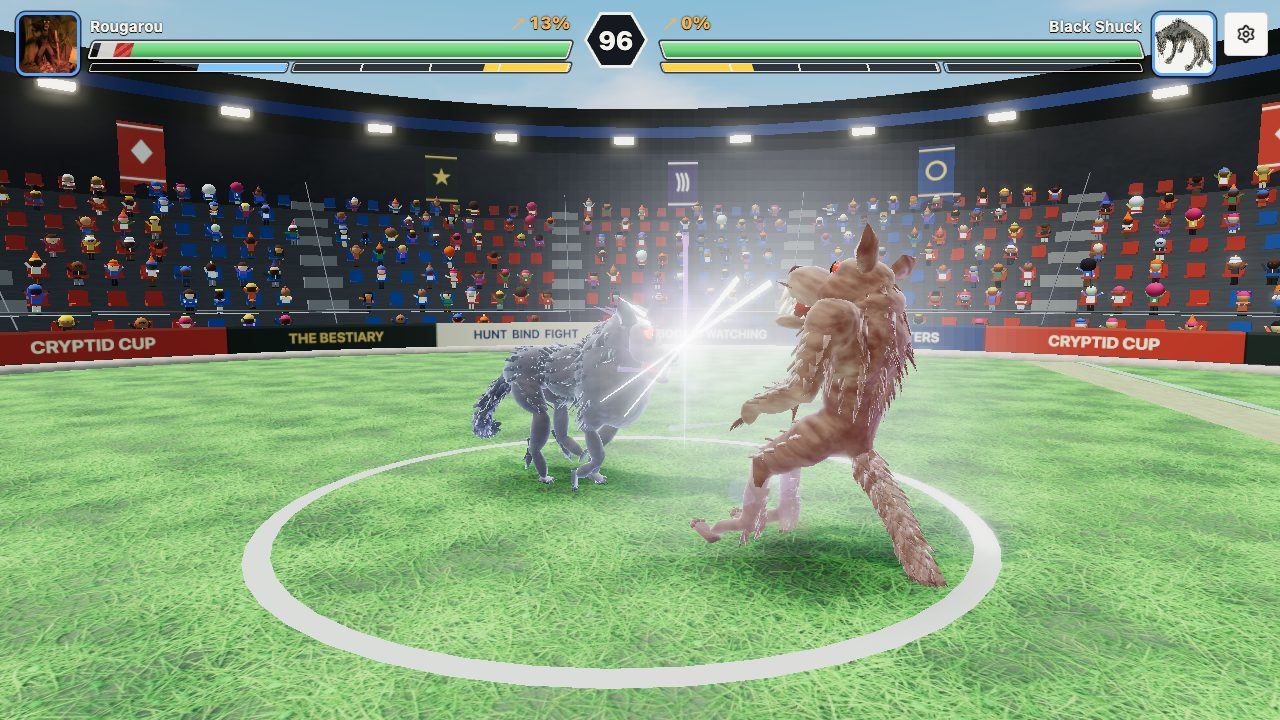
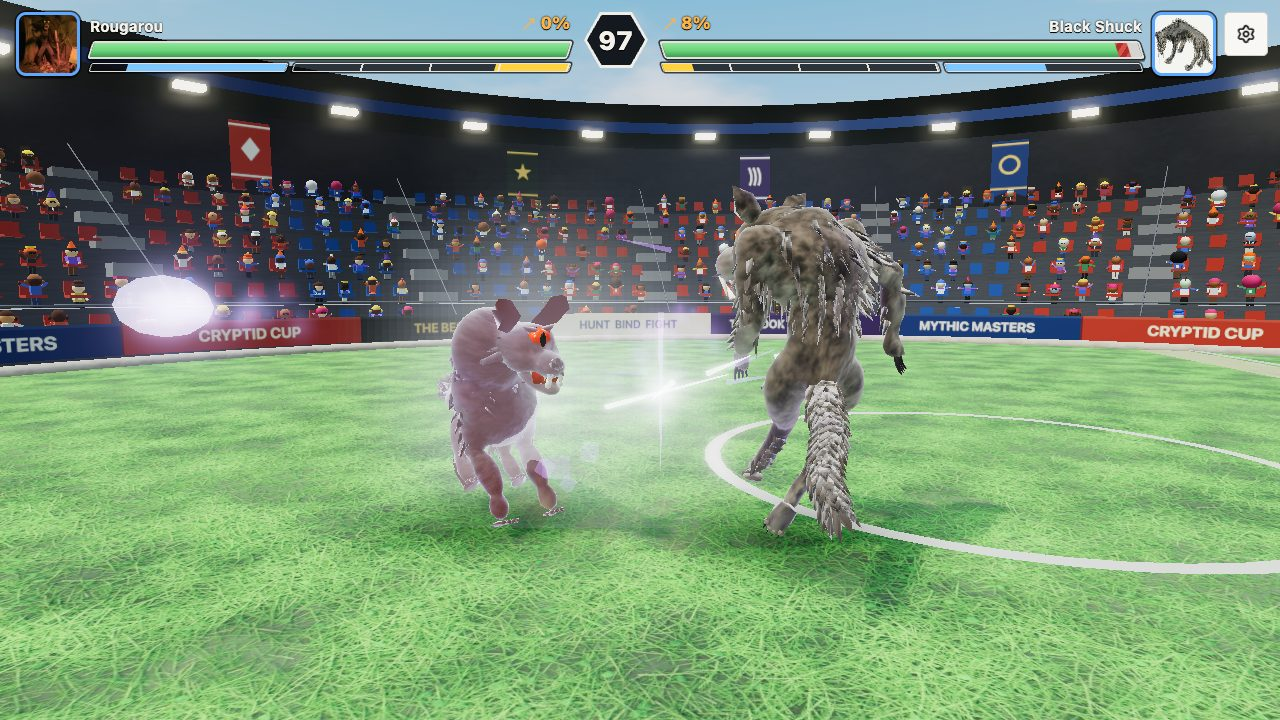
Mythic Masters whiplash: a stiffer, damped spring that is gone before the blow's rebound, and the curl keeps its head throw (round 20, Part of #4652)
The first tuning held the head back through the rebound, so the body never stretched past rest (beasts.test.ts).

diff --git a/apps/mythic-masters/src/beasts.ts b/apps/mythic-masters/src/beasts.ts
@@ -630,7 +630,7 @@ export class Puppet {
       pitch -= Math.sin(tick * 0.32) * (0.05 + 0.05 * this.upright);
     }
     // contact: a fresh hit (stun jumps up) squashes the body along the blow, then it springs back past rest
-    if (f.stun > this.prevStun + 1) { this.joltV = -9; this.blowV = -(3 + 5 * Math.min(1, (f.stun - this.prevStun) / 22)); this.snapV = 14 + 16 * Math.min(1, (f.stun - this.prevStun) / 22); }
+    if (f.stun > this.prevStun + 1) { this.joltV = -9; this.blowV = -(3 + 5 * Math.min(1, (f.stun - this.prevStun) / 22)); this.snapV = 30 + 20 * Math.min(1, (f.stun - this.prevStun) / 22); }
     if (f.stun > this.prevStun + 8) this.stagger = Math.min(1, (f.stun - this.prevStun) / 22);
     if (f.stun > this.prevStun + 1 && look) {
       const dx = f.pos.x - look.x, dz = f.pos.z - look.z, d = Math.hypot(dx, dz) || 1;
@@ -648,7 +648,7 @@ export class Puppet {
     const bdt = Math.min(dt, 1 / 30);
     this.blowV += (-70 * this.blow - 2 * 0.3 * Math.sqrt(70) * this.blowV) * bdt;
     this.blow = Math.max(-0.8, this.blow + this.blowV * bdt);
-    this.snapV += (-160 * this.snap - 2 * 0.5 * Math.sqrt(160) * this.snapV) * bdt;
+    this.snapV += (-600 * this.snap - 2 * 0.75 * Math.sqrt(600) * this.snapV) * bdt;
     this.snap = Math.min(1, this.snap + this.snapV * bdt);
     // anticipation: the wind-up squats and widens, the strike stretches tall and thin
     const sq = (wind * (1 - mk) * (0.05 + wt * 0.06) - mk * (0.04 + wt * 0.03)) * A.amp - this.jolt * 0.16;
@@ -670,7 +670,7 @@ export class Puppet {
     this.leanV += (lk * (pitch - this.lean) - ld * this.leanV) * ldt;
     this.lean += this.leanV * ldt;
     // a roll is one full tumble forward on top of the lean
-    this.pivot.rotation.set(roll, twist, this.lean - curl * 0.32 + this.snap * 0.22 - (off?.kind === "roll" ? offE * Math.PI * 2 : 0));
+    this.pivot.rotation.set(roll, twist, this.lean - curl * 0.32 + this.snap * 0.25 - (off?.kind === "roll" ? offE * Math.PI * 2 : 0));
     g.position.set(f.pos.x, f.pos.y, f.pos.z);
     // a real meet: the sim lands a melee blow up to a metre short of the other body, so the striker's whole body slides
     // the rest of the way on the strike and holds there while the move is live (the contact stop below then jars it),
@@ -821,7 +821,7 @@ export class Puppet {
       this.tmp.set(look.x, look.y, look.z).applyMatrix4(this.inv).sub(this.head[0]!.rest);
       if (this.tmp.x > 0) this.look.set(0, Math.max(-1, Math.min(1, this.tmp.y / (this.tmp.length() || 1))), Math.max(-1, Math.min(1, this.tmp.z / (this.tmp.length() || 1)))).multiplyScalar(0.08 * h);
     }
-    this.look.x += (past * 0.3 + lunge * 0.12 + jab * 0.1 + rear * 0.04 - back * 0.08 - stunK * 0.06 + curl * 0.06 - this.snap * 0.3) * h;
+    this.look.x += (past * 0.3 + lunge * 0.12 + jab * 0.1 + rear * 0.04 - back * 0.08 - stunK * 0.06 + curl * 0.16 - this.snap * 0.3) * h;
     this.look.y += (this.snap * 0.14 - curl * 0.12) * h;
     this.look.y += (rear * 0.08 - lunge * 0.04 + (upward && !grounded ? k * 0.1 : 0) + stunK * 0.08 - (f.state === "guard" ? 0.06 : 0)) * h;
     if (pose?.fx === "breath" && pose.k > 0) this.look.z += Math.sin(tick * 0.45) * 0.1 * pose.k * h;
